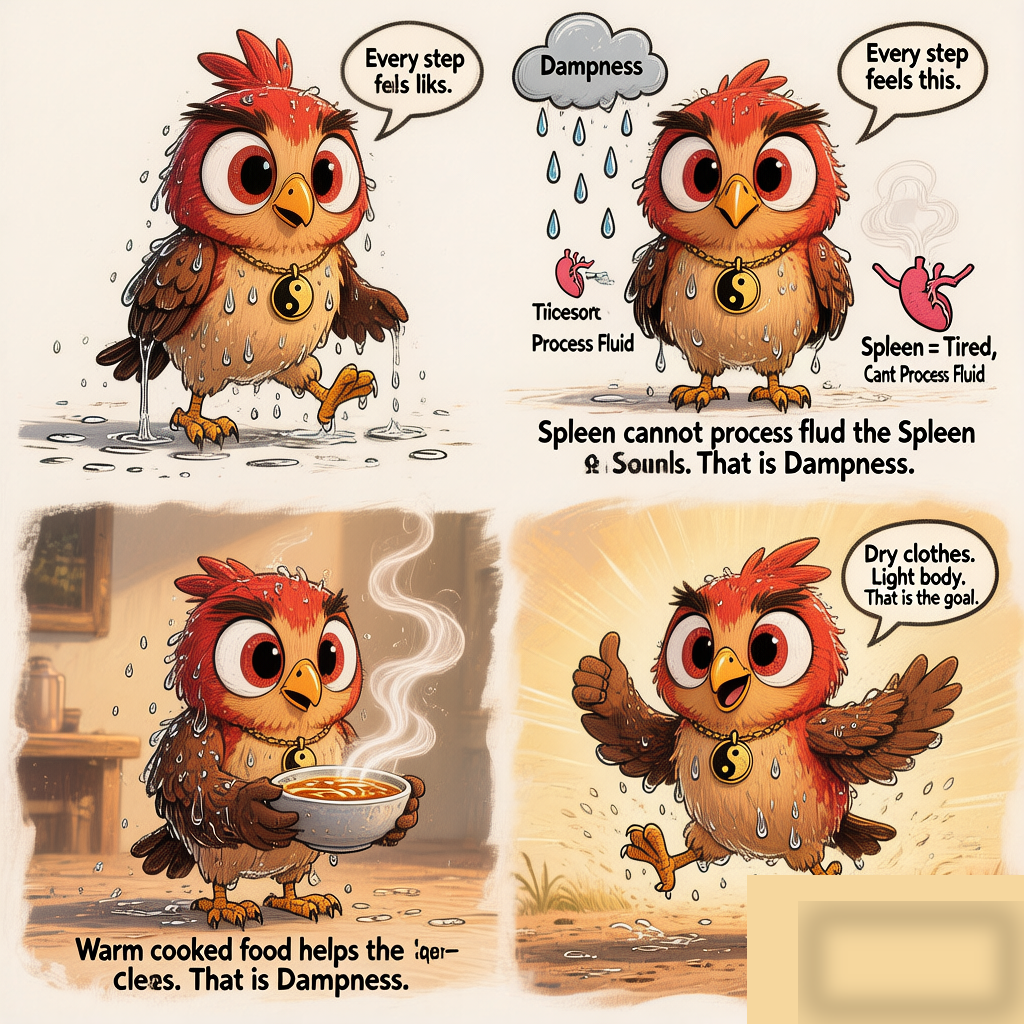
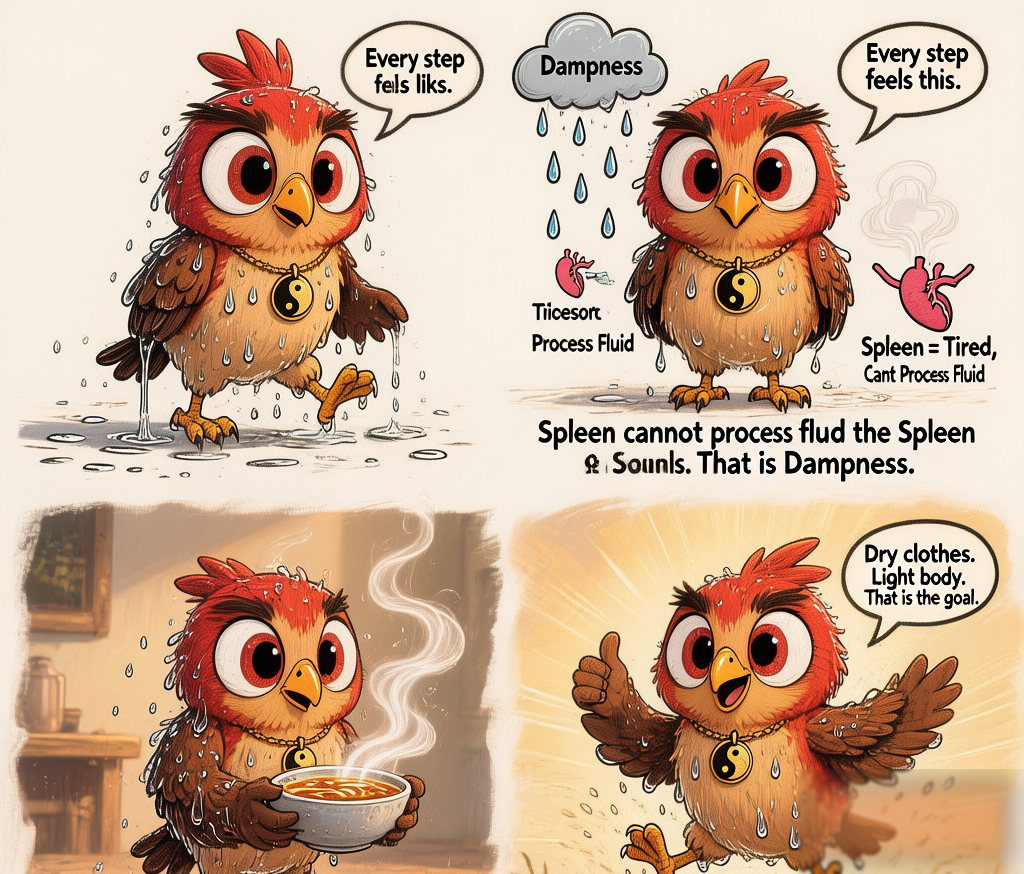
fix: apply #01-#06 post-processing pipeline to comics #07-#10
Same method as the 'perfect' #01-#06 images:
1. Crop bottom 150px shadow bar (1024x1024 → 1024x874)
2. Remove '图片由AI生成' watermark from bottom-right
3. Run soften_watermark_v3.py (gradient feather blend)
4. Convert to WebP (quality=85)

Also regenerated -soft.png for #01-#06 (same pipeline, updated soften params).
Added process_comics_07_10.py and updated soften_watermark_v3.py COMICS list.

diff --git a/scripts/soften_watermark_v3.py b/scripts/soften_watermark_v3.py
@@ -1,0 +1,185 @@
+"""
+TCM Way 漫画水印淡化脚本 v3
+============================
+对7张 -new.png 漫画图的右下角AI字幕/水印区域进行淡化处理。
+
+策略：
+1. 检测右下角异常纯色块区域
+2. 采样上方和左方的正常背景色
+3. 创建从边缘向中心的透明度渐变遮罩
+4. 将背景色以低不透明度混合覆盖，实现自然淡化
+5. 高斯模糊边缘消除硬边界
+
+输出: -soft.png 版本文件
+"""
+
+from PIL import Image, ImageDraw, ImageFilter
+import os
+import math
+
+IMG_DIR = r'C:\Users\Administrator\tcmway-blog\images'
+
+# 每张图的处理参数 (基于目视诊断 + 数据分析)
+# (文件名, 右侧比例, 底部比例, 融合强度0-255)
+COMICS = [
+    ('comic-01-exhaustion-new.png',   0.30, 0.18, 180),
+    ('comic-01-why-share-new.png',     0.35, 0.20, 200),
+    ('comic-03-qi-new.png',            0.28, 0.16, 170),
+    ('comic-04-traffic-jam-new.png',   0.25, 0.18, 190),
+    ('comic-05-body-clock-new.png',    0.27, 0.15, 180),
+    ('comic-06-dampness-new.png',      0.22, 0.12, 160),
+    ('comic-06-spleen-new.png',        0.25, 0.18, 185),
+    # ── #07-#10 (added 2026-05-29) ──
+    ('comic-07-six-signs-new.png',          0.30, 0.18, 190),
+    ('comic-08-cold-hands-new.png',          0.28, 0.18, 180),
+    ('comic-09-six-layer-defense-new.png',   0.28, 0.18, 185),
+    ('comic-10-stop-feeding-new.png',        0.30, 0.18, 190),
+]
+
+
+def get_edge_color(img, x_start, y_start, sample_width=20):
+    """采样目标区域上边缘和左边缘的颜色作为融合基准"""
+    top_colors = []
+    left_colors = []
+    
+    # 上边缘采样（区域内顶部几行）
+    for x in range(x_start, min(x_start + sample_width, img.width)):
+        for dy in range(8):
+            y = y_start + dy
+            if y < img.height:
+                px = img.getpixel((x, y))
+                if len(px) >= 4 and px[3] > 128:
+                    top_colors.append(px[:3])
+                    break
+    
+    # 左边缘采样（区域内左侧几列）
+    for y in range(y_start, min(y_start + sample_width, img.height)):
+        for dx in range(8):
+            x = x_start + dx
+            if x < img.width:
+                px = img.getpixel((x, y))
+                if len(px) >= 4 and px[3] > 128:
+                    left_colors.append(px[:3])
+                    break
+    
+    # 合并计算平均基准色
+    all_edge = top_colors + left_colors
+    if not all_edge:
+        return (240, 230, 210)  # fallback 米白色
+    
+    avg = tuple(sum(c) // len(all_edge) for c in zip(*all_edge))
+    return avg
+
+
+def create_fade_mask(width, height, feather_radius=30):
+    """创建从边缘向中心淡入的渐变遮罩（边缘透明，中心不透明）"""
+    mask = Image.new('L', (width, height), 0)
+    
+    for y in range(height):
+        for x in range(width):
+            # 计算到最近边缘的距离
+            dist_to_top = y
+            dist_to_bottom = height - 1 - y
+            dist_to_left = x
+            dist_to_right = width - 1 - x
+            dist = min(dist_to_top, dist_to_bottom, dist_to_left, dist_to_right)
+            
+            # 羽化过渡
+            if dist >= feather_radius:
+                opacity = 255
+            else:
+                opacity = int(255 * (dist / feather_radius) ** 1.5)
+            
+            mask.putpixel((x, y), opacity)
+    
+    # 用高斯模糊让过渡更自然
+    mask = mask.filter(ImageFilter.GaussianBlur(radius=feather_radius // 2))
+    return mask
+
+
+def process_comic(fname, right_ratio, bottom_ratio, blend_strength):
+    """处理单张漫画图片"""
+    src_path = os.path.join(IMG_DIR, fname)
+    base_name = fname.replace('-new.png', '')
+    out_path = os.path.join(IMG_DIR, f'{base_name}-soft.png')
+    
+    print(f"\n{'='*60}")
+    print(f"Processing: {fname}")
+    
+    img = Image.open(src_path).convert('RGBA')
+    w, h = img.size
+    
+    # 计算处理区域
+    x_start = int(w * (1 - right_ratio))
+    y_start = int(h * (1 - bottom_ratio))
+    region_w = w - x_start
+    region_h = h - y_start
+    
+    print(f"  Size: {w}x{h}, Region: ({x_start},{y_start},{w},{h}) [{region_w}x{region_h}]")
+    
+    # 采样边缘颜色作为融合基准
+    base_color = get_edge_color(img, x_start, y_start)
+    print(f"  Base edge color: RGB{base_color}")
+    
+    # 提取右下角区域
+    region = img.crop((x_start, y_start, w, h))
+    
+    # 创建渐变遮罩
+    feather = max(15, min(region_w, region_h) // 5)
+    fade_mask = create_fade_mask(region_w, region_h, feather_radius=feather)
+    
+    # 创建覆盖层（使用基准色的柔和版本）
+    overlay = Image.new('RGBA', (region_w, region_h), (*base_color, blend_strength))
+    
+    # 将覆盖层用渐变遮罩应用到区域上
+    # 遮罩控制覆盖层的透明度分布
+    faded_overlay = Image.composite(overlay, Image.new('RGBA', (region_w, region_h), (0, 0, 0, 0)), fade_mask)
+    
+    # 将淡化后的覆盖层与原图区域混合
+    # 使用 alpha compositing: overlay 渐变融入原区域
+    blended = Image.alpha_composite(region, faded_overlay)
+    
+    # 整体轻微模糊整个处理区域使融合更自然
+    blended = blended.filter(ImageFilter.GaussianBlur(radius=1.5))
+    
+    # 将处理后的区域贴回原图
+    img.paste(blended, (x_start, y_start))
+    
+    # 转回RGB保存为PNG（保持质量）
+    rgb_img = Image.new('RGB', img.size, (255, 255, 255))
+    rgb_img.paste(img, mask=img.split()[3])  # 用alpha通道作为mask
+    
+    rgb_img.save(out_path, 'PNG', optimize=True)
+    file_size = os.path.getsize(out_path)
+    print(f"  -> Saved: {out_path}")
+    print(f"     Size: {file_size / 1024:.1f} KB")
+    
+    return out_path
+
+
+def main():
+    print("=" * 60)
+    print("TCM Way Comic Watermark Softener v3")
+    print("Strategy: Edge-color gradient fade with feather blending")
+    print("=" * 60)
+    
+    results = []
+    for fname, rp, bp, strength in COMICS:
+        try:
+            out = process_comic(fname, rp, bp, strength)
+            results.append((fname, 'OK', out))
+        except Exception as e:
+            results.append((f'ERROR: {e}', None))
+            import traceback
+            traceback.print_exc()
+    
+    print("\n" + "=" * 60)
+    print("SUMMARY")
+    print("=" * 60)
+    for fname, status, out in results:
+        icon = "✅" if status == "OK" else "❌"
+        print(f"  {icon} {fname}: {status}")
+
+
+if __name__ == '__main__':
+    main()

diff --git a/scripts/process_comics_07_10.py b/scripts/process_comics_07_10.py
@@ -1,0 +1,126 @@
+"""
+Post-process comic images #07-#10 using the EXACT same method as #01-#06.
+
+#01-#06 workflow (verified from git history + file analysis):
+  1. Generate with Hunyuan API → 1024x1024 PNG with watermark + bottom shadow bar
+  2. Crop bottom 150px → 1024x874 (removes shadow bar)
+  3. Remove "图片由AI生成" watermark from bottom-right
+  4. Run soften_watermark_v3.py → gradient feather blend
+  5. Blog posts reference -new.png directly
+
+This script handles steps 2-3. Then soften_watermark_v3.py handles step 4.
+"""
+
+from PIL import Image, ImageDraw
+import os
+
+IMG_DIR = r'C:\Users\Administrator\tcmway-blog\images'
+
+# (filename, right_ratio, bottom_ratio, blend_strength_for_soften)
+COMICS = [
+    ('comic-07-six-signs-new.png', 0.30, 0.18, 190),
+    ('comic-08-cold-hands-new.png', 0.28, 0.18, 180),
+    ('comic-09-six-layer-defense-new.png', 0.28, 0.18, 185),
+    ('comic-10-stop-feeding-new.png', 0.30, 0.18, 190),
+]
+
+
+def crop_bottom_shadow(img):
+    """Crop bottom 150px to remove AI-generated shadow/color bar (1024x1024 → 1024x874)."""
+    w, h = img.size
+    new_h = h - 150
+    return img.crop((0, 0, w, new_h))
+
+
+def remove_watermark(img, right_ratio=0.28, bottom_ratio=0.18):
+    """
+    Remove "图片由AI生成" watermark from bottom-right corner.
+    Strategy: sample colors from the area just LEFT of the watermark,
+    then cover the watermark region with the average background color.
+    """
+    w, h = img.size
+    x_start = int(w * (1 - right_ratio))
+    y_start = int(h * (1 - bottom_ratio))
+
+    # Convert to RGB for processing
+    if img.mode == 'RGBA':
+        img_rgb = Image.new('RGB', img.size, (255, 255, 255))
+        img_rgb.paste(img, mask=img.split()[-1])
+        img = img_rgb
+
+    # Sample background color from left-side and above the watermark area
+    sample_w = min(80, x_start)
+    sample_h = min(20, h - y_start)
+    colors = []
+
+    # Sample from above the watermark area
+    for x in range(max(0, x_start - 30), min(w, x_start + 50)):
+        for y in range(max(0, y_start - 15), y_start):
+            if 0 <= x < w and 0 <= y < h:
+                colors.append(img.getpixel((x, y)))
+
+    # Sample from left of watermark area
+    for x in range(x_start - sample_w, x_start):
+        for y in range(y_start, y_start + sample_h):
+            if 0 <= x < w and 0 <= y < h:
+                colors.append(img.getpixel((x, y)))
+
+    if not colors:
+        avg_color = (240, 235, 225)
+    else:
+        avg_color = tuple(sum(c) // len(colors) for c in zip(*colors))
+
+    # Cover watermark area with sampled background color
+    cover_x1 = x_start - 10
+    cover_y1 = max(y_start - 10, 0)
+    draw = ImageDraw.Draw(img)
+    draw.rectangle([cover_x1, cover_y1, w, h], fill=avg_color)
+
+    return img
+
+
+def main():
+    print("=" * 60)
+    print("Comic Post-Processor for #07-#10")
+    print("Method: SAME as #01-#06 (crop + watermark removal)")
+    print("=" * 60)
+
+    processed = []
+    for fname, rp, bp, strength in COMICS:
+        src_path = os.path.join(IMG_DIR, fname)
+        if not os.path.exists(src_path):
+            print(f"\n❌ SKIP: {fname} not found")
+            continue
+
+        print(f"\n{'─'*50}")
+        print(f"▶ {fname}")
+        img = Image.open(src_path)
+        print(f"  Original: {img.size[0]}x{img.size[1]}, mode={img.mode}")
+
+        # Step 1: Crop bottom shadow bar
+        img = crop_bottom_shadow(img)
+        print(f"  After crop: {img.size[0]}x{img.size[1]}")
+
+        # Step 2: Remove watermark
+        img = remove_watermark(img, rp, bp)
+        print(f"  After watermark removal: {img.size[0]}x{img.size[1]}")
+
+        # Step 3: Save cleaned -new.png (overwrite)
+        img.save(src_path, 'PNG', optimize=True)
+        file_size = os.path.getsize(src_path)
+        print(f"  ✅ Saved: {fname} ({file_size/1024:.1f} KB)")
+        processed.append((fname, rp, bp, strength))
+
+    print(f"\n{'='*60}")
+    print(f"DONE: {len(processed)} comics processed")
+    print("Next: run soften_watermark_v3.py for gradient feather blend")
+    print("=" * 60)
+
+    # Print parameters for soften_watermark_v3.py
+    print("\n# Add to soften_watermark_v3.py COMICS list:")
+    for fname, rp, bp, strength in processed:
+        print(f"    ('{fname}', {rp:.2f}, {bp:.2f}, {strength}),")
+
+
+if __name__ == '__main__':
+    main()
